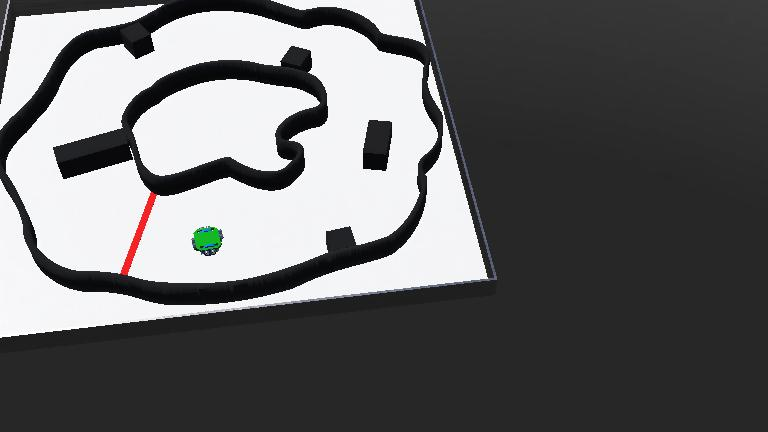
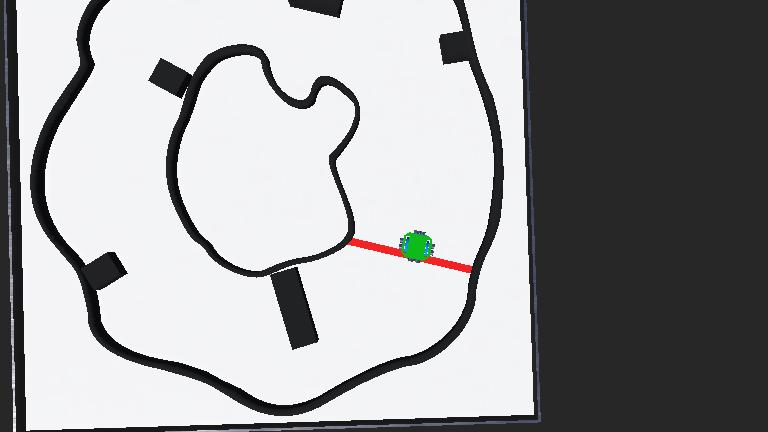
added psition apdating part

diff --git a/Simulation_round/controllers/my_controller/my_controller.py b/Simulation_round/controllers/my_controller/my_controller.py
@@ -1,38 +1,263 @@
-from controller import Robot
+from controller import Robot 
+import numpy as np
 import cv2
+import time
+import math
 
-
-TIME_STEP = 32
-MAX_SPEED = 6.28  # Adjust if your robot's max speed is different
 
 robot = Robot()
+timestep = int(robot.getBasicTimeStep())
+print("Controller started successfully!")
 
-left_motor = robot.getDevice('left motor')
-right_motor = robot.getDevice('right motor')
+# Robot physical properties
+WHEEL_RADIUS = 0.03  # meters (from AutoNova.proto)
+AXLE_LENGTH = 0.08   # meters (distance between wheels, from AutoNova.proto)
 
-#get the camera device
-camera = robot.getDevice('camera')
-camera.enable(TIME_STEP)
+# Robot position tracking (start in middle of grid)
+robot_x = 0
+robot_y = 0
+robot_theta = 0  # radians, 0 is facing positive x direction
+
+# Initialize encoders for odometry
+prev_left_encoder = 0
+prev_right_encoder = 0
+
+# Display settings
+VERBOSE_OUTPUT = False  # Set to False to limit terminal output
 
 
-left_motor.setPosition(float('inf'))
-right_motor.setPosition(float('inf'))
+def get_device(device_name):
+    device = robot.getDevice(device_name)
+    if device:
+        device.enable(timestep)
+    return device
 
-left_motor.setVelocity(MAX_SPEED)
-right_motor.setVelocity(MAX_SPEED)
 
-while robot.step(TIME_STEP) != -1:
+L_motor = robot.getDevice('left motor')
+R_motor = robot.getDevice('right motor')
+
+L_encoder = get_device('left encoder')
+R_encoder = get_device('right encoder')
+
+# Make sure encoders are properly initialized
+if L_encoder and R_encoder:
+    print("Encoders initialized successfully")
+else:
+    print("WARNING: One or both encoders not found!")
+
+# Configure motors for velocity control
+L_motor.setPosition(float('inf'))  # Set to infinite position for velocity control
+R_motor.setPosition(float('inf'))  # Set to infinite position for velocity control
+
+
+camera=get_device('camera')
+
+gyro = get_device('gyroScope')
+
+# Try to get GPS if available (for more accurate positioning)
+gps = get_device('GPS')
+
+us1,us2,us3,us4 = [get_device(name) for name in ['ps8', 'ps0', 'ps2', 'ps4']]
+
+def use_camera(cam):
+    image = cam.getImage()
+    width = cam.getWidth()
+    height = cam.getHeight()
+
+    image_array = np.frombuffer(image,dtype=np.uint8).reshape((height,width,4))
+    img_rgb = image_array[:,:,:3]
    
-    ret, frame = camera.getImage()
-    if ret:
-        # Convert the image to a format suitable for OpenCV
-        frame = cv2.cvtColor(frame, cv2.COLOR_BGR2RGB)
-        
-        # Display the image using OpenCV
-        cv2.imshow('Camera Feed', frame)
-        
-        # Break the loop if 'q' is pressed
-        if cv2.waitKey(1) & 0xFF == ord('q'):
-            break
+    return img_rgb
 
-cv2.destroyAllWindows()
+def control_with_keyboard(key, speed=2.0, turn_speed=1.0):
+    """
+    Control robot with keyboard inputs like a car racing game
+    
+    Arguments:
+        key: The key pressed (from cv2.waitKey)
+        speed: Forward/backward speed (default: 2.0)
+        turn_speed: Turning speed (default: 1.0)
+    """
+    if key == ord('w'):  # Move forward
+        L_motor.setVelocity(speed)
+        R_motor.setVelocity(speed)
+        if VERBOSE_OUTPUT:
+            print("Moving forward")
+    elif key == ord('s'):  # Move backward
+        L_motor.setVelocity(-speed)
+        R_motor.setVelocity(-speed)
+        if VERBOSE_OUTPUT:
+            print("Moving backward")
+    elif key == ord('a'):  # Turn left
+        L_motor.setVelocity(-turn_speed)
+        R_motor.setVelocity(turn_speed)
+        if VERBOSE_OUTPUT:
+            print("Turning left")
+    elif key == ord('d'):  # Turn right
+        L_motor.setVelocity(turn_speed)
+        R_motor.setVelocity(-turn_speed)
+        if VERBOSE_OUTPUT:
+            print("Turning right")
+    elif key == ord('q'):  # Left forward arc
+        L_motor.setVelocity(speed * 0.5)
+        R_motor.setVelocity(speed)
+        if VERBOSE_OUTPUT:
+            print("Forward left arc")
+    elif key == ord('e'):  # Right forward arc
+        L_motor.setVelocity(speed)
+        R_motor.setVelocity(speed * 0.5)
+        if VERBOSE_OUTPUT:
+            print("Forward right arc")
+    elif key == ord('z'):  # Left backward arc
+        L_motor.setVelocity(-speed * 0.5)
+        R_motor.setVelocity(-speed)
+        if VERBOSE_OUTPUT:
+            print("Backward left arc")
+    elif key == ord('c'):  # Right backward arc
+        L_motor.setVelocity(-speed)
+        R_motor.setVelocity(-speed * 0.5)
+        if VERBOSE_OUTPUT:
+            print("Backward right arc")
+    elif key == ord(' '):  # Space bar - emergency stop
+        L_motor.setVelocity(0.0)
+        R_motor.setVelocity(0.0)
+        print("Emergency stop!")
+    else:
+        # Default to gradual stop if no key is pressed
+        current_left = L_motor.getVelocity()
+        current_right = R_motor.getVelocity()
+        L_motor.setVelocity(current_left * 0.8)  # Gradual slowdown
+        R_motor.setVelocity(current_right * 0.8)  # Gradual slowdown
+
+
+def read_ultrasonic_distances():
+    """
+    Read ultrasonic sensor values and convert them to real distances in centimeters
+    Returns a dictionary with sensor names and their distances
+    """
+    # Get raw values from sensors
+    left_raw = us2.getValue()
+    right_raw = us4.getValue()
+    back_raw = us3.getValue()
+    front_raw = us1.getValue()
+    
+   
+    conversion_factor = 1000.0  # This value needs calibration for your specific sensors
+    
+    front_dist = front_raw / conversion_factor * 100.0  # Convert to cm
+    left_dist = left_raw / conversion_factor * 100.0
+    right_dist = right_raw / conversion_factor * 100.0
+    back_dist = back_raw / conversion_factor * 100.0
+    
+    # Create a dictionary with all distances
+    distances = {
+        "front": front_dist,
+        "left": left_dist,
+        "right": right_dist,
+        "back": back_dist
+    }
+    
+    # Print the distances
+    if VERBOSE_OUTPUT:
+        print(f"Distances (cm): Front: {front_dist:.1f}, Left: {left_dist:.1f}, Right: {right_dist:.1f}, Back: {back_dist:.1f}")
+    
+    return distances
+
+def map_edges_to_distance_array(edges):
+    """map edges from bottum middle point of the frame and return matrix of distances"""   
+    height, width = edges.shape
+    middle_x = width // 2
+    distances = np.zeros((height,width), dtype=np.float32)
+    
+    #take each edge point and map in to same x and change y regarding to distance
+    for y in range(height):
+        for x in range(width):
+            if edges[y, x] > 0:  # Edge detected
+                distance = height - y  # Distance from bottom to edge
+                distances[y, x] = distance
+    
+    return distances
+
+def update_position_from_encoders():
+    """
+    Update robot position and orientation based on encoder values.
+    Simplified version without grid tracking.
+    """
+    global robot_x, robot_y, robot_theta, prev_left_encoder, prev_right_encoder
+    
+    # Get current encoder values
+    left_encoder_val = L_encoder.getValue()
+    right_encoder_val = R_encoder.getValue()
+    
+    # Calculate change in encoder values
+    left_delta = left_encoder_val - prev_left_encoder
+    right_delta = right_encoder_val - prev_right_encoder
+    
+    # Update previous encoder values
+    prev_left_encoder = left_encoder_val
+    prev_right_encoder = right_encoder_val
+    
+    # Calculate distance traveled by each wheel
+    left_distance = left_delta * WHEEL_RADIUS  # meters
+    right_distance = right_delta * WHEEL_RADIUS  # meters
+    
+    # Calculate average distance traveled
+    distance = (left_distance + right_distance) / 2.0
+    
+    # Calculate change in orientation (based on differential drive kinematics)
+    orientation_change = (right_distance - left_distance) / AXLE_LENGTH
+    
+    # Update robot orientation
+    robot_theta += orientation_change
+    
+    # Normalize angle to [-π, π]
+    robot_theta = math.atan2(math.sin(robot_theta), math.cos(robot_theta))
+    
+    # Update robot position in real-world coordinates (meters)
+    real_x_change = distance * math.cos(robot_theta)
+    real_y_change = distance * math.sin(robot_theta)
+    
+    # Update position
+    robot_x += real_x_change
+    robot_y += real_y_change
+    
+    # Print current position
+    print(f"Robot position: ({robot_x:.2f}, {robot_y:.2f}) m | Orientation: {math.degrees(robot_theta):.1f}°")
+    
+    return robot_x, robot_y
+    
+# Main control loop
+while robot.step(timestep) != -1:
+    # Process camera image
+    frame = use_camera(camera)
+    img_gray = cv2.cvtColor(frame, cv2.COLOR_BGR2GRAY)
+    img_gray = cv2.GaussianBlur(img_gray, (5, 5), 0)
+    edges = cv2.Canny(img_gray, 50, 150, apertureSize=3)
+    
+    # Update robot position
+    current_x, current_y = update_position_from_encoders()
+    
+    # Make a copy of the frame that can be modified
+    display_frame = frame.copy()
+    
+    # Display current position on the image
+    position_text = f"Position: ({current_x:.2f}, {current_y:.2f}) m"
+    cv2.putText(display_frame, position_text, (10, 30), cv2.FONT_HERSHEY_SIMPLEX, 0.7, (0, 255, 0), 2)
+    
+    # Process keyboard input
+    key = cv2.waitKey(1) & 0xFF
+    control_with_keyboard(key)
+ 
+    # Show camera views
+    cv2.imshow("Robot Camera View", edges)
+    cv2.imshow("Camera Feed", display_frame)
+    
+    # Read sensor distances if needed
+    # distances = read_ultrasonic_distances()
+    
+    # Exit on 'q' key press
+    if key == ord('q'):
+        break
+    
+    # Uncomment this to also use autonomous movement
+    # run()
